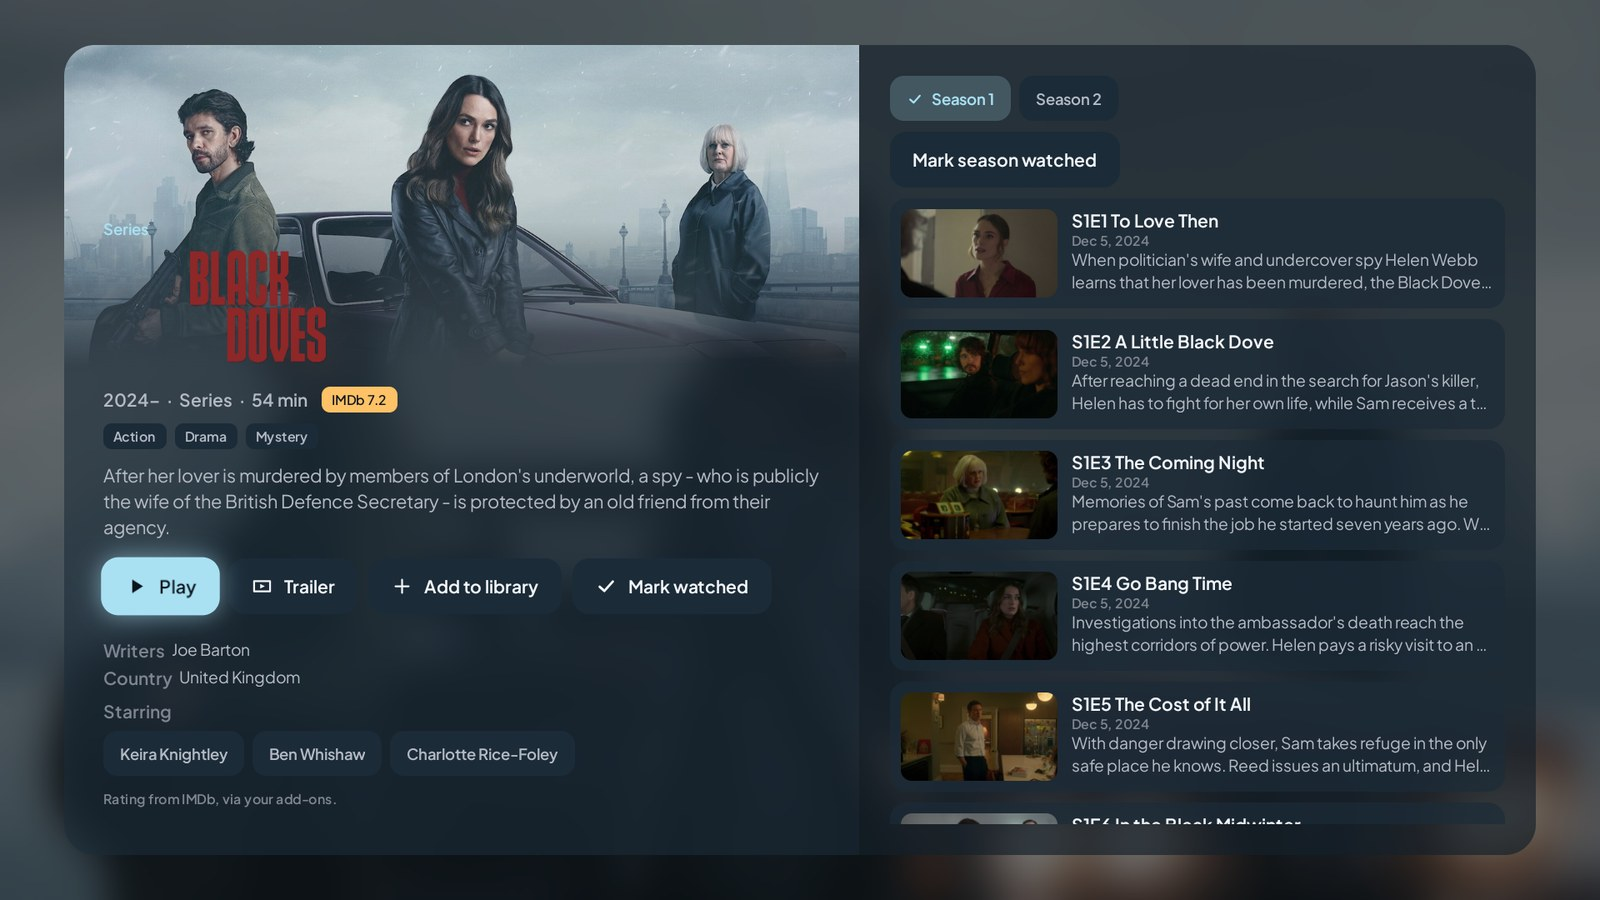
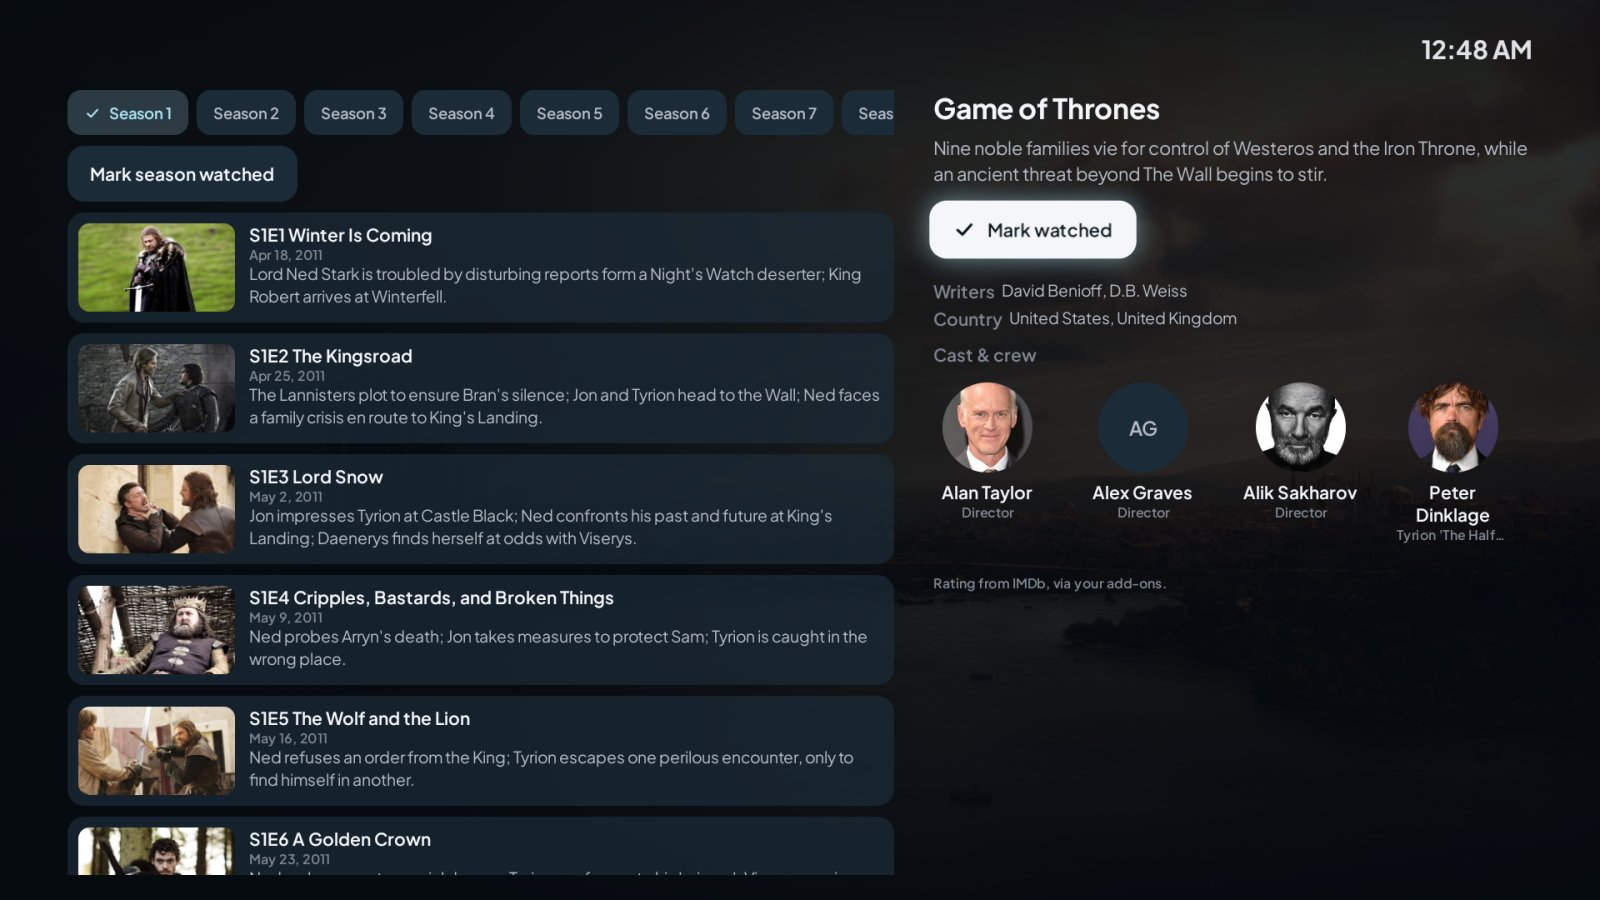
Release v0.1.2: changelog section and new title page screenshots
Screenshots: CI showcase and journey captures of 568a753 (run 41942651215).

diff --git a/README.md b/README.md
@@ -21,8 +21,8 @@ VYRK is a free, open-source Android TV client for Stremio add-ons. Sign in to yo
 
 | | | |
 |---|---|---|
-| ![Home](docs/images/screenshots/home.jpg)<br>**Home** — featured hero with live artwork and credits | ![Top 10](docs/images/screenshots/top10-rows.jpg)<br>**Top 10 rows** — ranked per service, with the title header and a muted trailer | ![Info page](docs/images/screenshots/info-page.jpg)<br>**Info page** — details and ranked sources side by side |
-| ![Series](docs/images/screenshots/series-info.jpg)<br>**Series** — season guide with stills, air dates and watched state | ![Player](docs/images/screenshots/player.jpg)<br>**Player** — elapsed, remaining and "Ends at" | ![Audio & subtitles](docs/images/screenshots/audio-subtitles.jpg)<br>**Audio & subtitles** — languages as names, flags as a supplement |
+| ![Home](docs/images/screenshots/home.jpg)<br>**Home** — featured hero with live artwork and credits | ![Top 10](docs/images/screenshots/top10-rows.jpg)<br>**Top 10 rows** — ranked per service, with the title header and a muted trailer | ![Title page](docs/images/screenshots/info-page.jpg)<br>**Title page** — full screen, with cast photos; sources and episodes below |
+| ![Series](docs/images/screenshots/series-info.jpg)<br>**Series** — season guide with stills, air dates and watched state, beside the cast | ![Player](docs/images/screenshots/player.jpg)<br>**Player** — elapsed, remaining and "Ends at" | ![Audio & subtitles](docs/images/screenshots/audio-subtitles.jpg)<br>**Audio & subtitles** — languages as names, flags as a supplement |
 | ![Search](docs/images/screenshots/search.jpg)<br>**Search** — on-screen keyboard, results per type | ![Library](docs/images/screenshots/library.jpg)<br>**Library** — filters, sorts and progress | ![Top 10 suggestion](docs/images/screenshots/top10-suggestion.jpg)<br>**Top 10 suggestion** — one press adds the rows |
 | ![Add-ons](docs/images/screenshots/addons.jpg)<br>**Settings › Add-ons** — reorder, configure by QR, redacted URLs | ![Settings](docs/images/screenshots/settings.jpg)<br>**Settings** — on glass over blurred artwork; source choice and stream limits | ![Profiles](docs/images/screenshots/profiles.jpg)<br>**Profiles** — up to five, each with its own add-ons and PIN |
 | ![First run](docs/images/screenshots/first-run.jpg)<br>**First run** — sign in by QR or start without an account | | |

diff --git a/CHANGELOG.md b/CHANGELOG.md
@@ -2,7 +2,7 @@
 
 All user-visible changes. Versions follow `vX.Y.Z` tags.
 
-## Unreleased
+## v0.1.2
 
 - The title page is full screen: the title's artwork fills the screen behind its logo, facts, synopsis, cast with photos, and Play, Trailer, library and more buttons. Down or the more button shows episodes or sources with the details and full cast; Back returns.
 - While you move along a row, the header no longer jumps as a title's details load, and a title's logo no longer changes to a different one moments after it appears.
